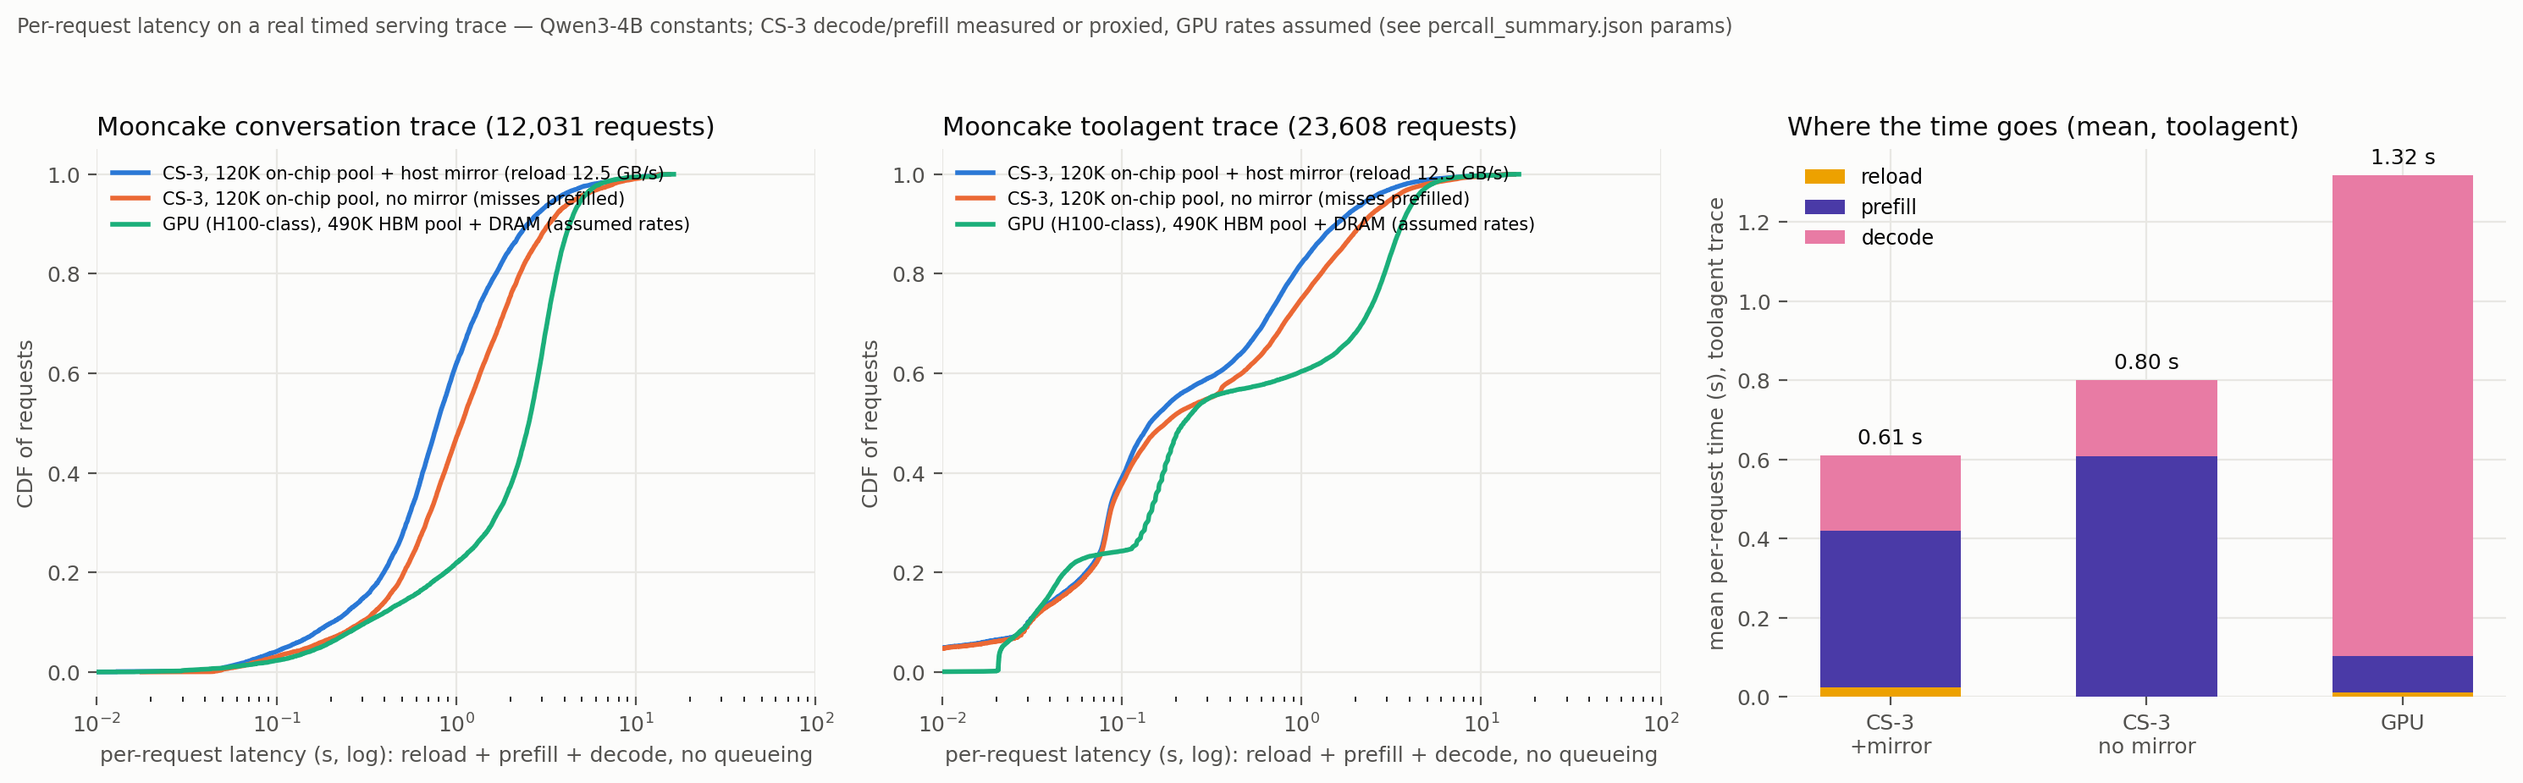
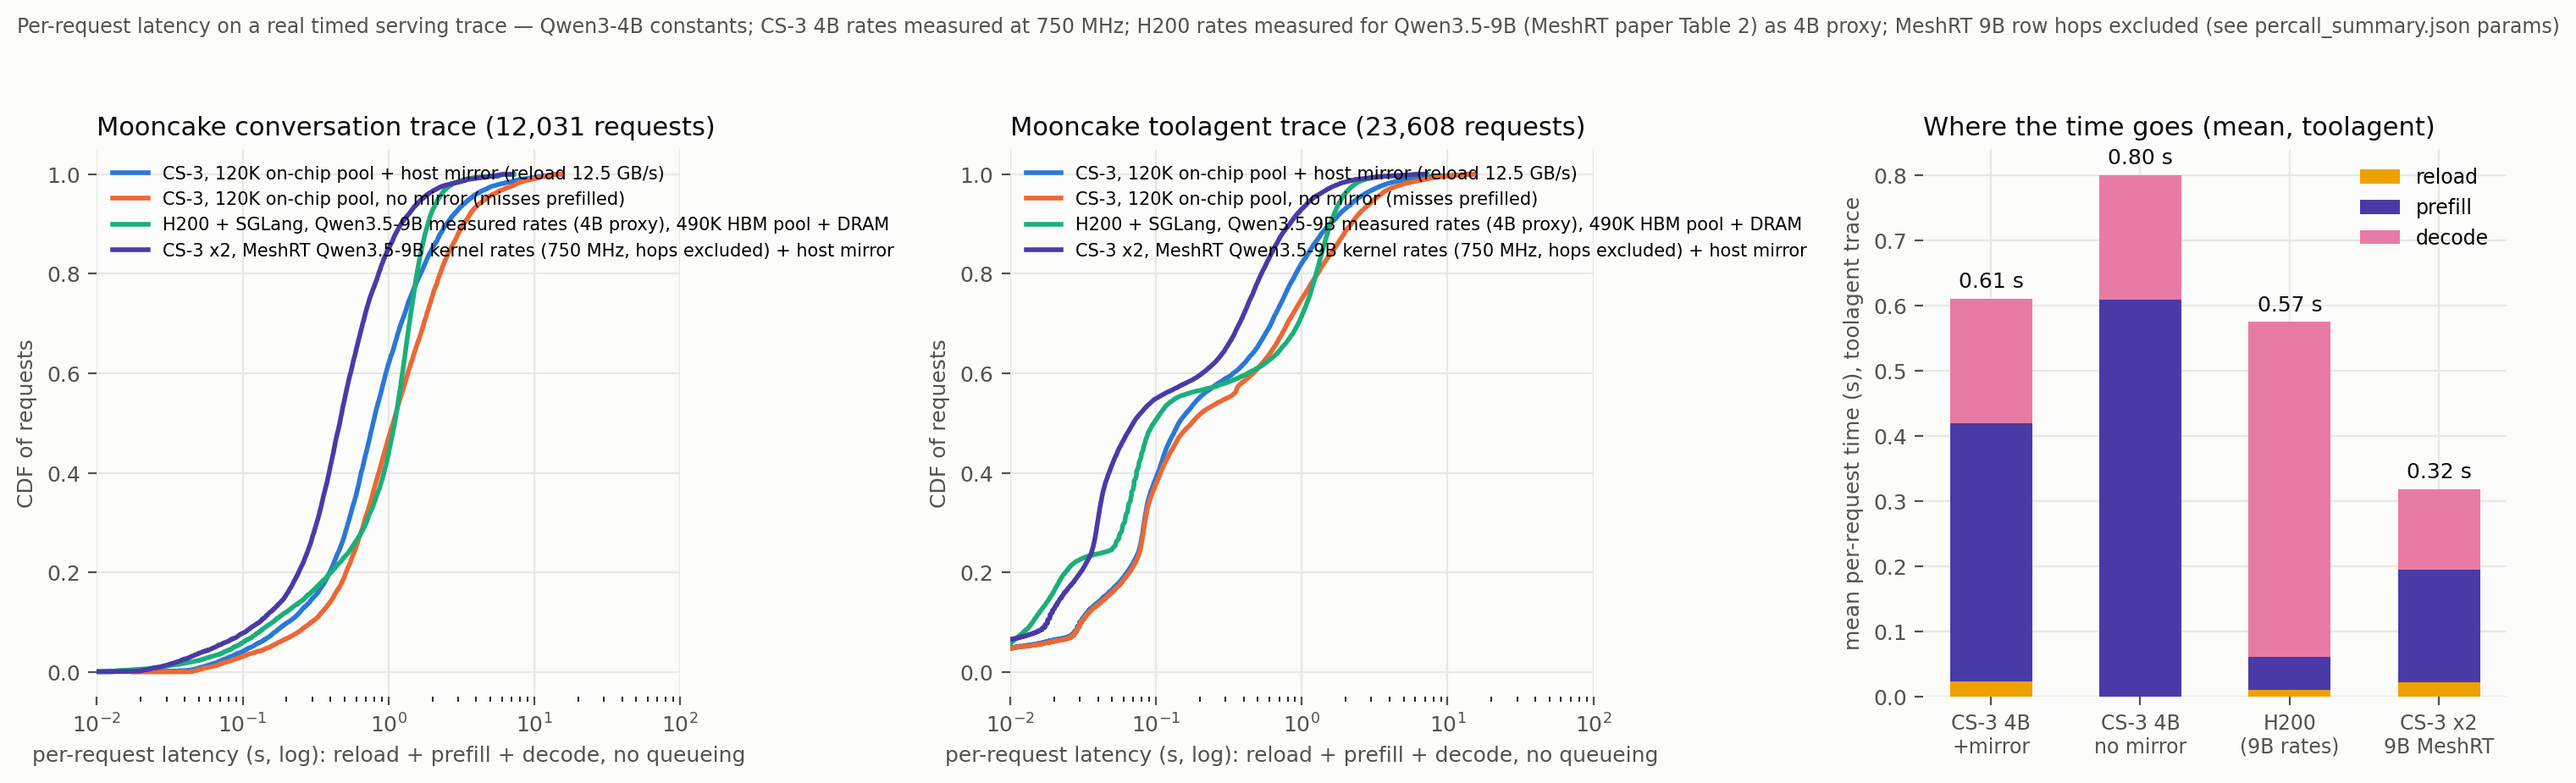
memory: regen views (session hook)

diff --git a/projects/wse3-performance-model/memory/inbox/2026-09-04-4b-row-is-serial-attn-ffn-block-times.md b/projects/wse3-performance-model/memory/inbox/2026-09-04-4b-row-is-serial-attn-ffn-block-times.md
@@ -1,0 +1,58 @@
+# Qwen3-4B decode: a block row is one serial resource; ATTN 127K + FFN 50K cycles per token — 2026-09-04
+
+**Project:** wse3-performance-model
+**Author:** claude (subagent `4b-block-tsc`)
+**Status:** captured
+
+## Situation
+
+You are estimating forced-decode ("decoder as prefiller") or pipelined
+throughput for the 4B role-split decode kernel and need to know whether the
+ATTN block and FFN block of a row can work on different tokens at the same
+time, and how a row's time splits between them. Write-up with every
+number labelled: `wse3-performance-model/analyses/2026-09-04-4b-block-tsc/README.md`;
+patch `block-tsc.patch` (adds `src/prof_tsc.csl`, new collector streams
+only; verified to apply to the tracked tree; nothing committed).
+
+## What happened / finding (measured, CS-3 `wsjob-tp5yqatuwy2mfzoubusxnc`,
+`device_2x4_8k` + `device_prefill4k`, last 512 of 4,096 steps, ~8K context)
+
+- Row 0 per token: **T_attn = 127,301 cycles** (14,145 per layer, 9 layers
+  + A multicasts), **T_ffn = 50,238 cycles** (5,582 per layer); step period
+  808,995 cycles (1,079 µs at 750 MHz). ATTN waits on FFN 44,981 cycles per
+  token, FFN waits on ATTN 113,313; hop pair ≈ 60 cycles per layer.
+- **ATTN and FFN cannot overlap across tokens**: within a row they
+  alternate per layer on the same token (`decode.csl:attn_step` blocks in
+  `multicast_recv_b` for FFN layer l before starting l+1). A row is one
+  serial resource of T_attn + T_ffn = 177.5K cycles; today (autoregressive)
+  row 0 is busy only 21.9 % of the step period.
+- **Forced-decode throughput of the current kernel = 750 MHz / 177.5K =
+  4,224 tok/s** (matches the two-wafer demo's 166K-cycle row period and
+  Le's "single-stream × 4 stages" rule). 750 MHz / max(T_attn, T_ffn) =
+  5,892 tok/s needs a kernel change making ATTN and FFN independent
+  stages.
+- ATTN is 72 % of a layer (same as the 9B mixer/FFN split of 69–77 %).
+  Σ(8 blocks) = 87.8 % of the period; the 12.2 % residual is HT head/tail
+  + inter-row K-pipe (not stamped). Whole-run FFN step period matches the
+  ht_tail per-token TSC to 0.20 %.
+- Gates: token records byte-identical to the 09-02 unmodified run;
+  per-token TSC −0.058 %; negative control (stamp before the work) drops
+  block busy to a few hundred cycles and is rejected by the 2,000-cycle
+  floor check.
+
+## Gotchas
+
+- `<time>.get_timestamp` needs `--max-inlined-iterations ≥ 16`; the 4B
+  `cslc-driver` wrapper caps it at 8. Raising it is code-neutral (the
+  unmodified `decode.csl` links to a byte-identical 64,288 B ELF at 8 and
+  16).
+- Stamping one PE per block with its own monotonic counter avoids any
+  cross-PE TSC reference correction; egress via new RAMP→NORTH bursts into a
+  routing-only `kv_fwd.csl` collector at y=0 keeps existing data paths
+  untouched. Instrumented ATTN r0 PEs still have 8,400 B free.
+
+## Pointers
+
+- Report: `docs/reports/2026-09-04-4b-wide-layer-session-report.md` Round 13
+- Related: `2026-09-04-meshrt-9b-layer-time-flat-in-region-size.md`,
+  `2026-09-03-4b-batch-scaling-pipeline-and-750mhz-clock.md`

diff --git a/projects/wse3-performance-model/memory/inbox/2026-09-04-meshrt-9b-layer-time-flat-in-region-size.md b/projects/wse3-performance-model/memory/inbox/2026-09-04-meshrt-9b-layer-time-flat-in-region-size.md
@@ -1,0 +1,53 @@
+# MeshRT 9B decode: per-layer step time is flat in region size; the stage floor is SRAM — 2026-09-04
+
+**Project:** wse3-performance-model
+**Author:** claude (subagent `meshrt-9b-region-profile`)
+**Status:** captured
+
+## Situation
+
+You are sizing pipeline stages for forced-decode ("decoder as prefiller") or
+pipelined decode throughput on WSE-3 and need to know whether a smaller
+layer region makes each layer slower, and how small a stage can get.
+Full README with provenance and all wsjob ids:
+`wse3-performance-model/analyses/2026-09-04-meshrt-9b-region-profile/README.md`
+(configs, logs, results, phase-probe patch alongside).
+
+## What happened / finding (measured, CS-3 device TSC, MeshRT Qwen3.5-9B
+`layer_block`, bsz 1, 4K context, commit 288fe8ae, 12 jobs)
+
+- Weighted per-layer cycles vs the published 256² (Full 14,719 / GDN
+  15,949): 128×256 **−0.3 %** (fastest), 256×128 +6.6 %, 128×512 +1.1 %,
+  512×128 +20 %, 256×512 +5.3 %, 512×256 +17 %, 512×512 +22 %. Over an 8×
+  span of PE count the per-layer time barely moves; **width is the
+  expensive axis** (X shards the hidden tile and KV, so wider meshes
+  lengthen the collective chains bsz-1 decode is latency-bound on), height
+  is nearly free. 512² loses at bsz 1 even though it wins 37 % at bsz 16.
+- **Stage-size floor = per-PE SRAM, not time.** Resident weights scale as
+  1/(W×H): 128×128, 64×256 and 256×64 (16,384 PEs) fail to link (`.bss`
+  overflow); 128×256 (32,768 PEs, 88 % of the bank) is the smallest stage
+  that exists without kernel changes → ≤ ~22 concurrent stages per wafer.
+- **Phase split** (TSC probe around `post_ffn` in `full_layer_tile` /
+  `gdn_layer_tile`, +61 lines, build 0.25–0.85 % slower): mixer/attention
+  69–77 % of a layer step, FFN 23–31 % despite ~2× the MACs; a
+  ~1,450-cycle per-step floor at every region size.
+- Reproduction gate: published numbers matched to 0.0001 %; both
+  published bsz-1 A/Bs reproduce. Negative gate: illegal meshes (200×256,
+  264×256, 256×48, 256×272, 256×16) rejected by the generator's
+  divisibility checks (mirrored as `@comptime_assert` at
+  `src/Layer/layer.csl:1277-1284`).
+- Analytical consequence: 1-layer stages at 128×256 → ~15.6K cycles per
+  stage → ≈ 48K tok/s forced-decode throughput per 9B instance at 750 MHz
+  (hops excluded) — the order of an H200's measured 72.8K tok/s prefill.
+
+## Gotchas
+
+- MeshRT's `layer_block` run reports both layer types from one job (272
+  Full steps then 272 GDN steps, TSC on the phase-2 collective root PE).
+- Upstream JSON/paper convert at 1.1 GHz; use cycles, or 750 MHz.
+
+## Pointers
+
+- Report: `docs/reports/2026-09-04-4b-wide-layer-session-report.md` Round 12
+- Related: `2026-09-03-4b-batch-scaling-pipeline-and-750mhz-clock.md`,
+  `2026-09-03-session-4b-wide-layer-conclusions.md`

diff --git a/projects/wse3-performance-model/memory/inbox/2026-09-04-4b-decode-cost-vs-context-and-device-ceiling.md b/projects/wse3-performance-model/memory/inbox/2026-09-04-4b-decode-cost-vs-context-and-device-ceiling.md
@@ -1,0 +1,53 @@
+# Qwen3-4B decode on CS-3: cost vs context (681K + 16 cycles/token) and the real ceiling (29,184) — 2026-09-04
+
+**Project:** wse3-performance-model
+**Author:** claude
+**Status:** captured
+
+## Situation
+
+You need the 4B decode rate at a context other than 8K, or the longest
+`MAX_SEQ_LEN` that actually runs on the appliance (the local compile sweep
+said 30,464). Data: `wse3-performance-model/analyses/2026-09-04-4b-context-sweep/`
+(`results/context_sweep.json`, `results/turn_estimate.json`, logs, configs,
+driver); figure `assets/2026-09-04-context-sweep.png`.
+
+## What happened / finding (measured, CS-3, route-table 4B decode tree
+unmodified, bsz 1, host-ingested prefix then 4,096 decode steps)
+
+| MAX_SEQ_LEN | context during decode | cycles/step | tok/s @750 MHz |
+| --: | --- | --: | --: |
+| 8,192 | 4K→8K | 785,826 | 954 |
+| 16,384 | 12K→16K | 889,547 | 843 |
+| 23,040 | 18.7K→22.8K | 1,029,112 | 729 |
+| 28,160 | 23.8K→27.9K | 1,096,070 | 684 |
+| 29,184 | 24.8K→28.9K | 1,109,064 | 676 |
+| 30,464 | appliance link fails (task table / `.data.hi`) | — | — |
+
+- **Linear: cycles/step ≈ 680,741 + 16.07 × context tokens.** 8K→29K is
+  +41 % per step. Rate at 4K/8K/16K/23K/29K ≈ 1,005/923/794/714/652 tok/s.
+- **Device ceiling MAX_SEQ_LEN = 29,184**; the locally compiled 30,464 does
+  not link on the appliance (appliance `.text` is a few hundred bytes larger).
+  Bisected with 28,160 and 29,184 (both run).
+- 16 cycles per context token is ~15× the MeshRT GPT-OSS-20B long-context
+  kernel (1.1 cycles per context token per step, 4K→128K): the 4B attention
+  path is latency-bound per position — kernel maturity, not hardware.
+- Per-turn re-estimate (Claude Code, harness capped at 29K, rate from the
+  fit, prefill 9,304 tok/s): median turn **≈ 26 s** (2.7 s prefill + 22.3 s
+  decode) vs the earlier 18.8 s "8K rate everywhere" estimate and ≈ 41 s
+  on an H200 at 9B/4K rates (GPU side still uncapped and context-independent).
+
+## Gotchas
+
+- One run failed with appliance HTTP 503 (`grpc StatusCode.UNAVAILABLE`,
+  `wsjob-p3ey7sbsty338c6aks3x6g`); a plain retry succeeded — treat 503 as
+  transient infra, not a kernel error.
+- A tmux wait-loop keyed on "C16 exit" matched the *first* (failed) C16 line
+  and started the bisect early; key such waits on a line that only the run
+  you are waiting for can produce.
+
+## Pointers
+
+- Report: `docs/reports/2026-09-04-4b-wide-layer-session-report.md` Round 16
+- Related: `2026-09-03-4b-batch-scaling-pipeline-and-750mhz-clock.md`,
+  `2026-09-04-4b-row-is-serial-attn-ffn-block-times.md`

diff --git a/projects/wse3-performance-model/memory/inbox/2026-09-04-agentic-decode-is-mostly-hidden-reasoning.md b/projects/wse3-performance-model/memory/inbox/2026-09-04-agentic-decode-is-mostly-hidden-reasoning.md
@@ -1,0 +1,46 @@
+# Agentic decode: short per call, ~89 % hidden reasoning, decode-bound per turn — 2026-09-04
+
+**Project:** wse3-performance-model
+**Author:** claude
+**Status:** captured
+
+## Situation
+
+You are reading "output_tokens" from Claude Code transcripts as decode
+length, or arguing that agentic decode is short so decode speed does not
+matter. Script and numbers:
+`wse3-performance-model/analyses/2026-09-02-gc-trace-study/{decode_breakdown.py,results/decode_breakdown.json}`;
+figure `assets/2026-09-04-decode-breakdown.png`.
+
+## What happened / finding
+
+- **Per call, decode is short in both trace families** (measured): Mooncake
+  toolagent output p50 30 tokens (100 % ≤ 2K), conversation p50 350;
+  Claude Code p50 443 per API call, p90 3.3K, p99 10K.
+- **Per user turn it is not small** (Claude Code, ~19 calls per turn):
+  decode p50 14.4K tokens, p90 67K; newly prefilled tokens per turn p50
+  24.7K. Decode/prefill token ratio p50 0.63 (decode > prefill in 25 % of
+  turns). **In time the turn is decode-bound on both engines**: at CS-3 4B
+  rates 2.7 s prefill + 15.1 s decode per median turn (decode dominates in
+  80 % of turns); at H200 9B rates 0.34 s + 40.5 s (98 %). CS-3's decode
+  speed shows per turn (≈ 18 s vs ≈ 41 s), not per call — the counterpart
+  of the Mooncake per-request result, where prefill dominated.
+- **Claude Code transcripts do not store thinking text** (thinking blocks
+  carry only a signature; 0.1 % of messages even have the block). The
+  median assistant message has 0.57 visible characters per output token
+  vs ~3.8 for normal text, so most decoded tokens are invisible. Estimate
+  (visible tokens = characters / 3.8, remainder hidden): **hidden
+  reasoning ≈ 89 %**, visible text 2.7 %, Edit/Write tool inputs 4.2 %,
+  Bash inputs 2.5 %, other tools 1.7 %; per call hidden p50 356 / p90
+  3,021, visible text p50 26 tokens, Edit/Write p50 325. The visible answer
+  is Mooncake-sized; the reasoning is what makes the per-turn decode budget
+  14K. Hidden share is ±10 points (the chars/token constant is assumed).
+- Consequence for sizing: a reasoning-light agent (or a small model without
+  extended thinking) has an order-of-magnitude smaller decode budget per
+  turn; a reasoning-heavy one is where fast decode pays.
+
+## Pointers
+
+- Report: `docs/reports/2026-09-04-4b-wide-layer-session-report.md` Round 14
+- Related: `2026-09-03-gc-curve-v2-idle-gaps-and-keep-vs-park.md`,
+  `2026-09-03-mooncake-percall-latency-serving-trace.md`

diff --git a/projects/wse3-performance-model/memory/inbox/2026-09-03-mooncake-percall-latency-serving-trace.md b/projects/wse3-performance-model/memory/inbox/2026-09-03-mooncake-percall-latency-serving-trace.md
@@ -63,6 +63,21 @@ Figure: `assets/2026-09-03-mooncake-percall-latency.png`. Doc:
   KV recreation, or workload co-design. Implications are to be argued from
   these per-dataset charts, not in general.
 
+## Revision 2026-09-04 — measured H200 rates flip the single-wafer 4B comparison
+
+GPU rates replaced by the MeshRT paper's H200 + SGLang measurements
+(Qwen3.5-9B, bs 1: prefill 72,757 tok/s, decode 355 tok/s; used as 4B
+proxy). Result: the single-wafer 4B deployment no longer beats the GPU on
+mean per-request latency (toolagent 0.61 vs 0.57 s; conversation 1.22 vs
+1.09 s) — prefill-heavy requests reward the GPU's 8× faster prefill more
+than CS-3's 2.7× faster decode. A same-size comparison (MeshRT Qwen3.5-9B
+kernels on two wafers, 750 MHz, hops excluded: decode 1,475, prefill
+21,442 tok/s) leads the GPU again (toolagent mean 0.32 s, p50 0.07; conv
+0.63 s). Lesson: the CS-3 side is decided by prefill throughput per wafer
+at least as much as by decode speed; quote which kernel generation and
+how many wafers whenever comparing. Doc §7; figure
+`assets/2026-09-03-mooncake-percall-latency.png` (4 configs).
+
 ## Implications / next actions
 
 - [ ] Replace GPU assumptions with measured single-stream vLLM/SGLang

diff --git a/projects/wse3-performance-model/memory/timeline.md b/projects/wse3-performance-model/memory/timeline.md
@@ -2,6 +2,13 @@
 
 # wse3-performance-model Timeline
 
+- 2026-09-04 — meshrt-9b-layer-time-flat-in-region-size → `memory/inbox/2026-09-04-meshrt-9b-layer-time-flat-in-region-size.md`
+- 2026-09-04 — increments → `assets/2026-09-04-increments.png`
+- 2026-09-04 — decode-breakdown → `assets/2026-09-04-decode-breakdown.png`
+- 2026-09-04 — context-sweep → `assets/2026-09-04-context-sweep.png`
+- 2026-09-04 — agentic-decode-is-mostly-hidden-reasoning → `memory/inbox/2026-09-04-agentic-decode-is-mostly-hidden-reasoning.md`
+- 2026-09-04 — 4b-row-is-serial-attn-ffn-block-times → `memory/inbox/2026-09-04-4b-row-is-serial-attn-ffn-block-times.md`
+- 2026-09-04 — 4b-decode-cost-vs-context-and-device-ceiling → `memory/inbox/2026-09-04-4b-decode-cost-vs-context-and-device-ceiling.md`
 - 2026-09-03 — two-wafer-pp-hop-price-and-tsc-calibration → `memory/inbox/2026-09-03-two-wafer-pp-hop-price-and-tsc-calibration.md`
 - 2026-09-03 — two-wafer-pp-floorplan → `artifacts/2026-09-03-two-wafer-pp-floorplan.png`
 - 2026-09-03 — simfab-real-time-stall-detector → `memory/inbox/2026-09-03-simfab-real-time-stall-detector.md`

diff --git a/projects/wse3-performance-model/memory/inbox/2026-09-03-session-4b-wide-layer-conclusions.md b/projects/wse3-performance-model/memory/inbox/2026-09-03-session-4b-wide-layer-conclusions.md
@@ -85,6 +85,10 @@ Charts (all generated views, scripts in the repo):
 
 ## Pointers
 
+- Human-readable session report (round by round, all eight figures):
+  `wse3-performance-model/docs/reports/2026-09-04-4b-wide-layer-session-report.md`;
+  web version with embedded figures: https://claude.ai/code/artifact/52cee6ad-bc9a-4883-bcbc-dfd2b98fe338
+
 - ContextBase (MeshAgent/WaferOS › Logs): session results with all six charts —
   https://context.ed-aisys.com/doc/2026-09-03-result-session-4b-wide-layer-kv-levers-cs-3-measurements-agentic-positioning-nQpvM1Pzcd ;
   earlier chart page `2026-09-02 Result — SRAM supply merit order and KV demand curve` (2ITHmQd6XV).
